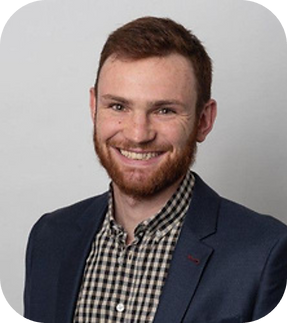
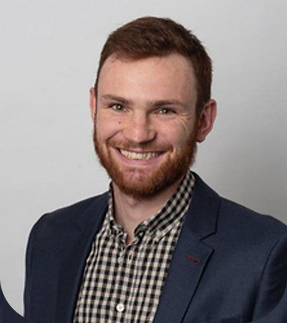
Bullfinch teaser: hero mark above the wordmark, squared headshots, smoother grove release, Instagram in nav
Hero: the mark moves from beside BULLFINCH IS to above it at 2x, and the
whole hero block now runs off one left edge (--hero-copy-inset to 0). The
alignment is optical, not box-based — the mark's leftmost tip is 5.76% into
its viewBox and the settled state scales .74 about centre, so the box is
pulled back 17.26% of its width to land the tip on the B.

Headshots: the rounded corners were baked into the PNGs as alpha, which is
why border-radius: 0 !important did nothing. Squared by compositing each
over a 126% centre-crop of itself, so the corners fill with real content
instead of a flat sample. Originals in assets/Archive/.

Grove release: the camera's un-flatten and its 2.2-unit zoom pull-in both
rode treeFormP's tail, so they fired in the last quarter of a dispersal
that spans the whole band — a bump, exactly where Piet saw it. Both now
release on finalFieldP across the entire dispersal. Formation is untouched.

Nav: Instagram mark beside the fullscreen toggle, deliberately href-less
until the profile URL lands.

diff --git a/bullfinch/teaser.html b/bullfinch/teaser.html
@@ -227,15 +227,17 @@
       #page { z-index: 3; }
       .hero { background: transparent; }
       .hero__inner {
-        --hero-logo-size: clamp(54px, 5.1vw, 78px);
+        --hero-logo-size: clamp(108px, 10.2vw, 156px);
         --hero-logo-gap: clamp(14px, 1.8vw, 28px);
-        --hero-copy-inset: calc(var(--hero-logo-size) + var(--hero-logo-gap));
+        /* The mark now sits ABOVE the wordmark, so nothing is indented past
+           it any more — the whole hero block runs off one left edge. */
+        --hero-copy-inset: 0px;
         width: calc(100vw - clamp(48px, 8vw, 144px));
         max-width: none;
       }
       .hero__title { width: 100%; max-width: none; }
       .hero-is { min-height: 0; }
-      .hero-brand-row { display: flex; align-items: center; gap: var(--hero-logo-gap); }
+      .hero-brand-row { display: block; }
       .hero-is__label,
       .hero-is__prefix,
       .hero-is__cycle { display: block; }
@@ -286,11 +288,21 @@
         text-align-last: left;
       }
 
+      /* Optical left-align, not box left-align. The mark's leftmost tip is at
+         5.76% of the viewBox width (path min x 55.76 in "50 35 100 70"), and
+         the settled state scales .74 about centre, which pulls that tip in to
+         17.26% of the box. Pull the box back by that much so the TIP lands on
+         the B of BULLFINCH, not the invisible box edge. Same reasoning below
+         the mark: its ink stops at 70% of the box height once scaled, so the
+         negative bottom margin removes the dead air before the wordmark. */
       .corner-logo-sequence {
         position: relative;
         z-index: 1;
+        display: block;
         width: var(--hero-logo-size);
         height: var(--hero-logo-size);
+        margin-left: calc(var(--hero-logo-size) * -0.1726);
+        margin-bottom: calc(var(--hero-logo-size) * -0.24);
         flex: 0 0 auto;
         pointer-events: none;
       }
@@ -526,6 +538,20 @@
         --ink-quiet: rgba(239, 231, 211, .74);
       }
       .site-nav a { transition: color 240ms ease; }
+
+      /* Instagram sits beside the fullscreen toggle and matches it exactly —
+         same 16px box, same --ink-quiet resting state, so it picks up the
+         grove-stage remap above for free. */
+      .nav-social {
+        width: 16px;
+        height: 16px;
+        display: inline-grid;
+        place-items: center;
+        color: var(--ink-quiet);
+      }
+      .nav-social svg { display: block; }
+      .nav-social[href] { cursor: pointer; }
+      .nav-social:hover, .nav-social:focus-visible { color: var(--ink); }
 
       /* Heading block sits LOW, just above the dead-centre red dot. */
       .closing { padding-top: clamp(90px, 15vh, 210px); }
@@ -935,6 +961,18 @@
             <path d="M9 20H4v-5" />
           </svg>
         </button>
+        <!-- Instagram. No href yet — Bullfinch's profile URL is still to come,
+             so this renders as the mark only rather than pointing somewhere
+             wrong. Add href="https://www.instagram.com/<handle>/" plus
+             target="_blank" rel="noopener" and it becomes a live link with no
+             other change. -->
+        <a class="nav-social" data-social="instagram" aria-label="Bullfinch Earth on Instagram">
+          <svg viewBox="0 0 24 24" width="15" height="15" fill="none" stroke="currentColor" stroke-width="1.6" stroke-linecap="square" aria-hidden="true">
+            <rect x="3.4" y="3.4" width="17.2" height="17.2" rx="4.6" />
+            <circle cx="12" cy="12" r="4.05" />
+            <circle cx="17.1" cy="6.9" r="1.05" fill="currentColor" stroke="none" />
+          </svg>
+        </a>
       </nav>
     </header>
     <main id="page">

diff --git a/bullfinch/scene-claude-teaser.js b/bullfinch/scene-claude-teaser.js
@@ -1706,7 +1706,20 @@
       camParY = 0;
     }
 
-    var flatTreeView = smoothstep(0.05, 0.25, treeFormP);
+    // Flattening IN (grove formation) and releasing OUT (grove dispersal) are
+    // deliberately asymmetric. Formation keeps its quick [0.05, 0.25] band on
+    // treeFormP so the camera is level before the trees assemble. Release used
+    // to ride the same band in reverse, which meant it only began once
+    // treeFormP had already fallen under 0.25 — the last quarter of the
+    // dispersal — so the camera snapped back to the scripted tilt in a fraction
+    // of the scroll the spread itself takes, and read as a bump (Piet). Drive
+    // the release off finalFieldP across the WHOLE dispersal band instead:
+    // starts sooner, finishes later, and moves with the downward spread rather
+    // than against its tail.
+    var flatTreeView = Math.min(
+      smoothstep(0.05, 0.25, treeFormP),
+      1 - smoothstep(0.0, 1.0, finalFieldP)
+    );
     camera.position.x = dollyX + camParX;
     camera.position.y = lerp(dollyY + camParY, TREE_CAMERA_Y, flatTreeView);
     camera.position.z = dollyZ;
@@ -2144,7 +2157,11 @@
       x = tClamp01((x - a) / (b - a));
       return x * x * (3 - 2 * x);
     }
-    return 2.2 * ss(0.05, 0.6, treeFormP);
+    // Same asymmetry as flatTreeView above: the pull-IN on dispersal is a
+    // 2.2-unit z move, and riding treeFormP's tail crammed it into the back
+    // 60% of the spread. Release it across the whole dispersal band so the
+    // zoom and the tilt travel together.
+    return 2.2 * Math.min(ss(0.05, 0.6, treeFormP), 1 - ss(0.0, 1.0, finalFieldP));
   }
 
   // Runs every frame from the animate loop, after the organic mote update
